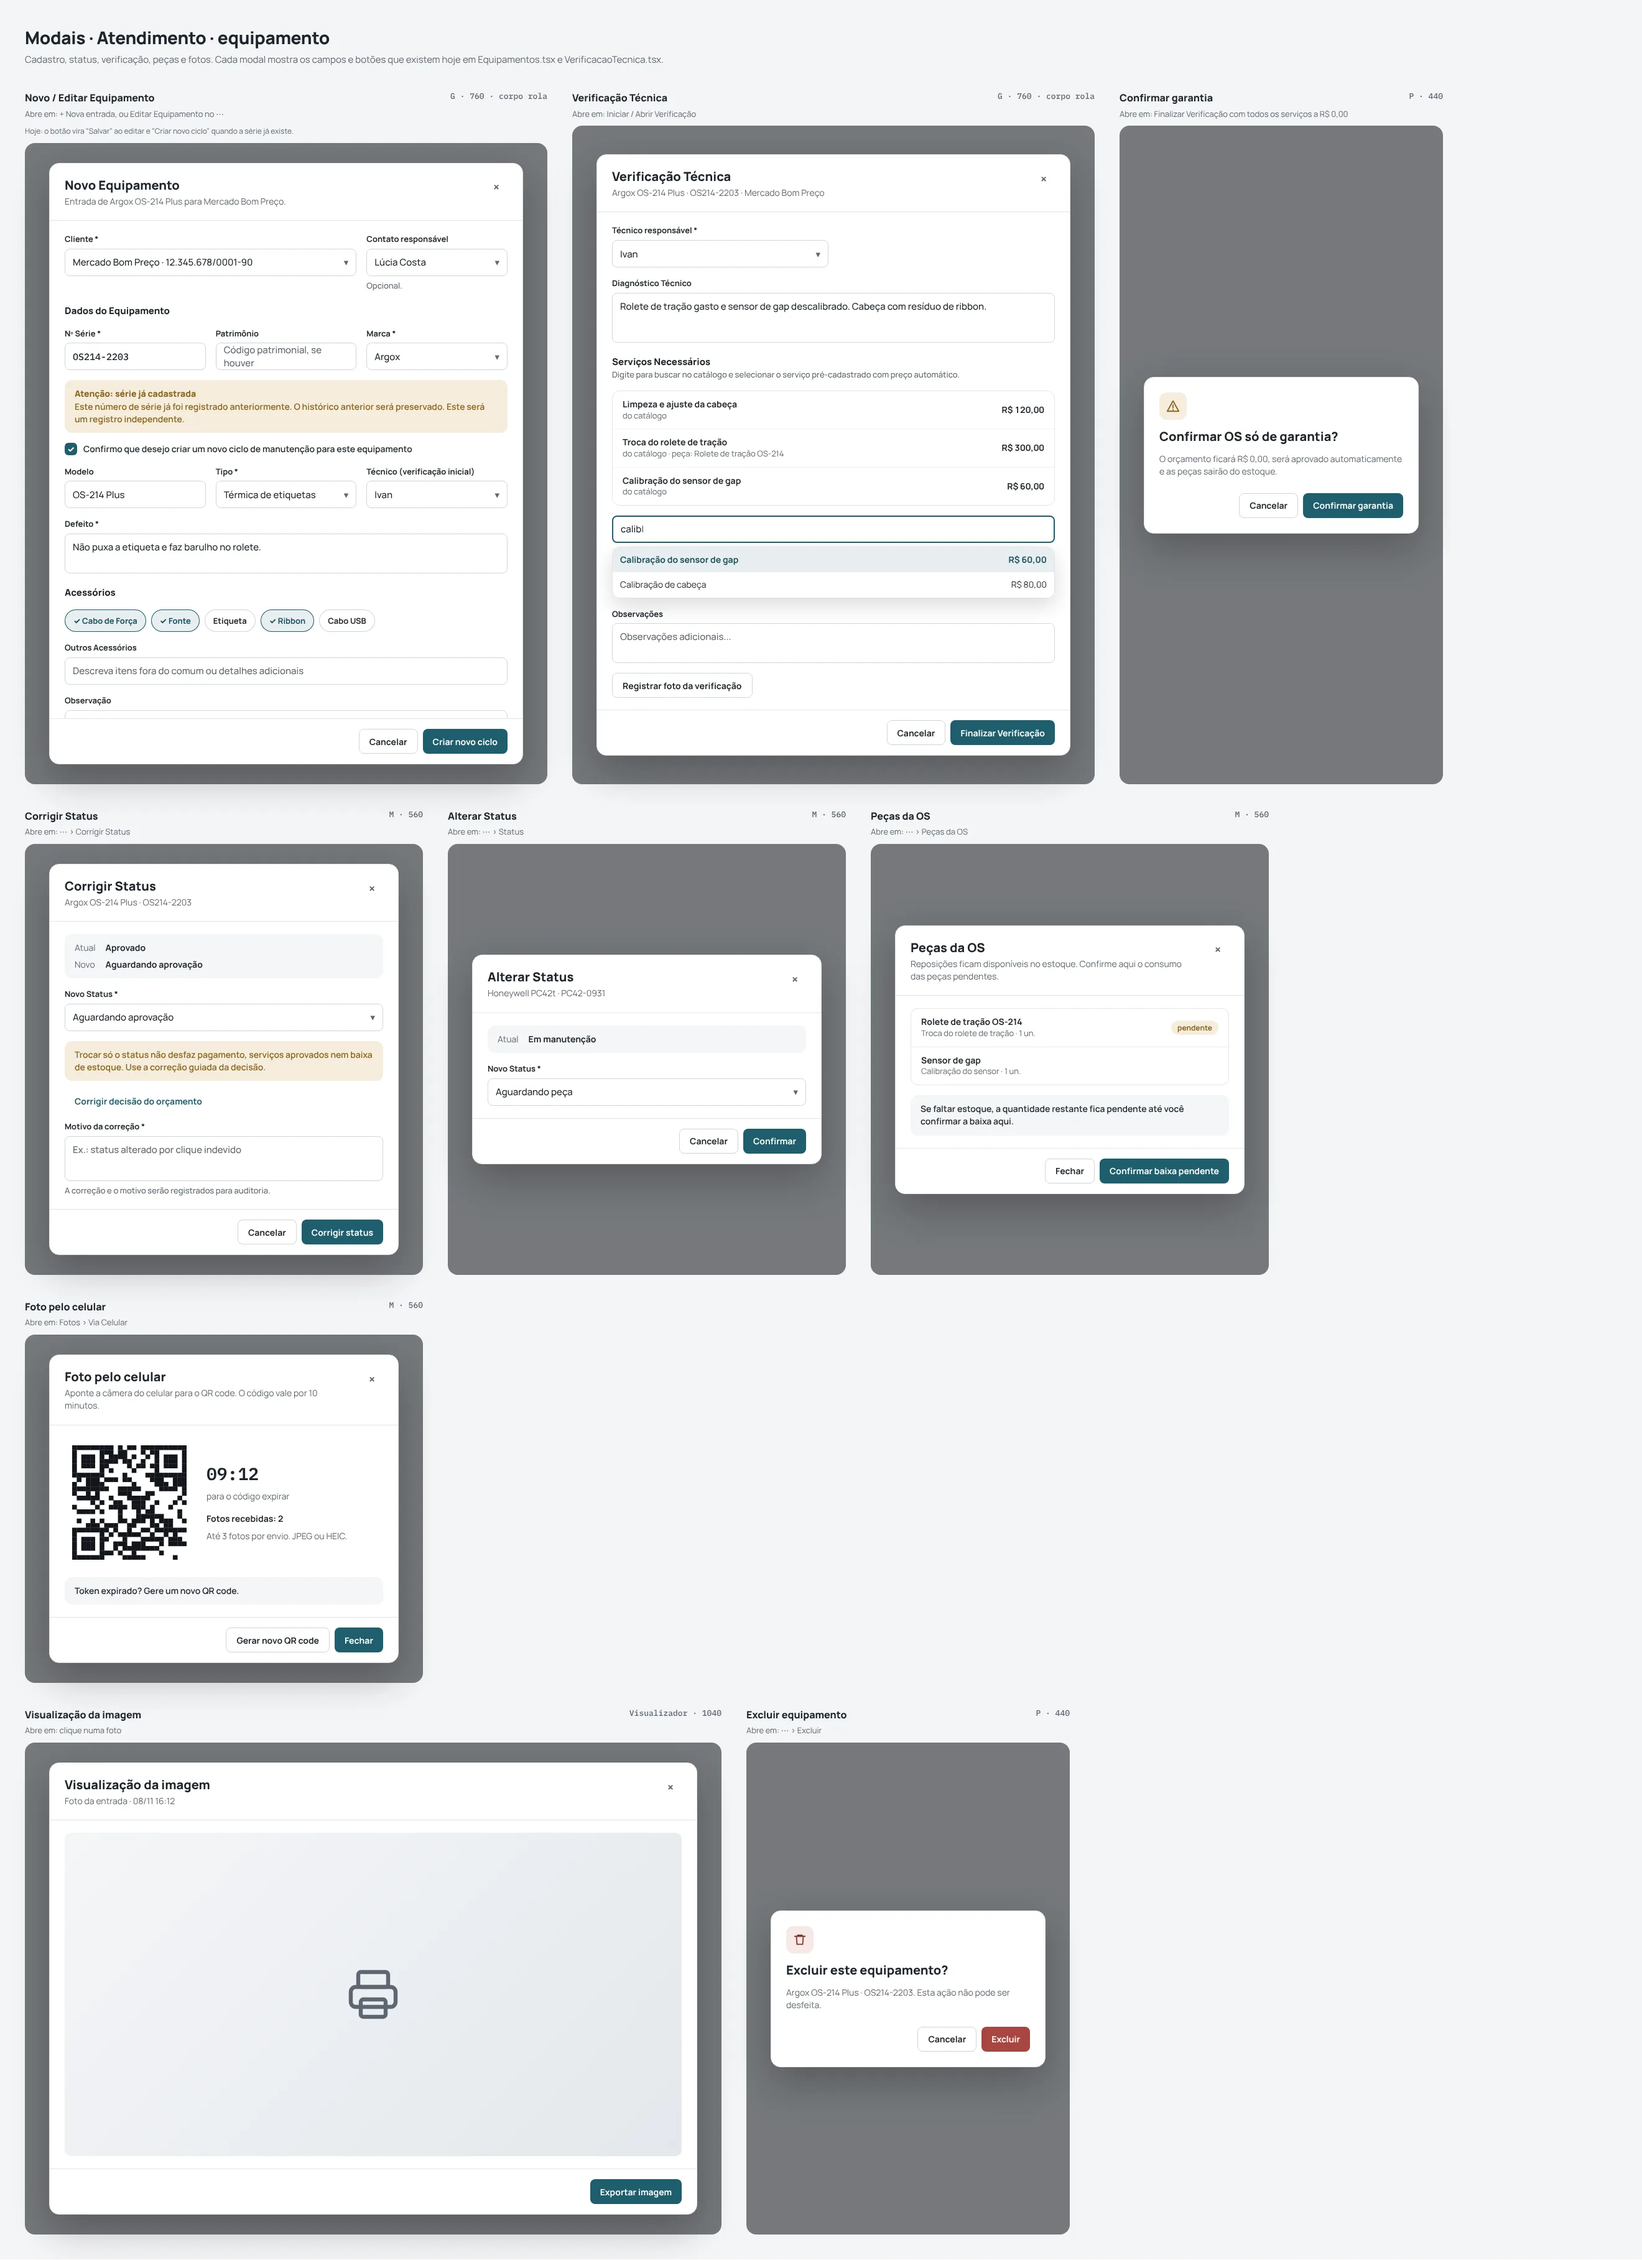
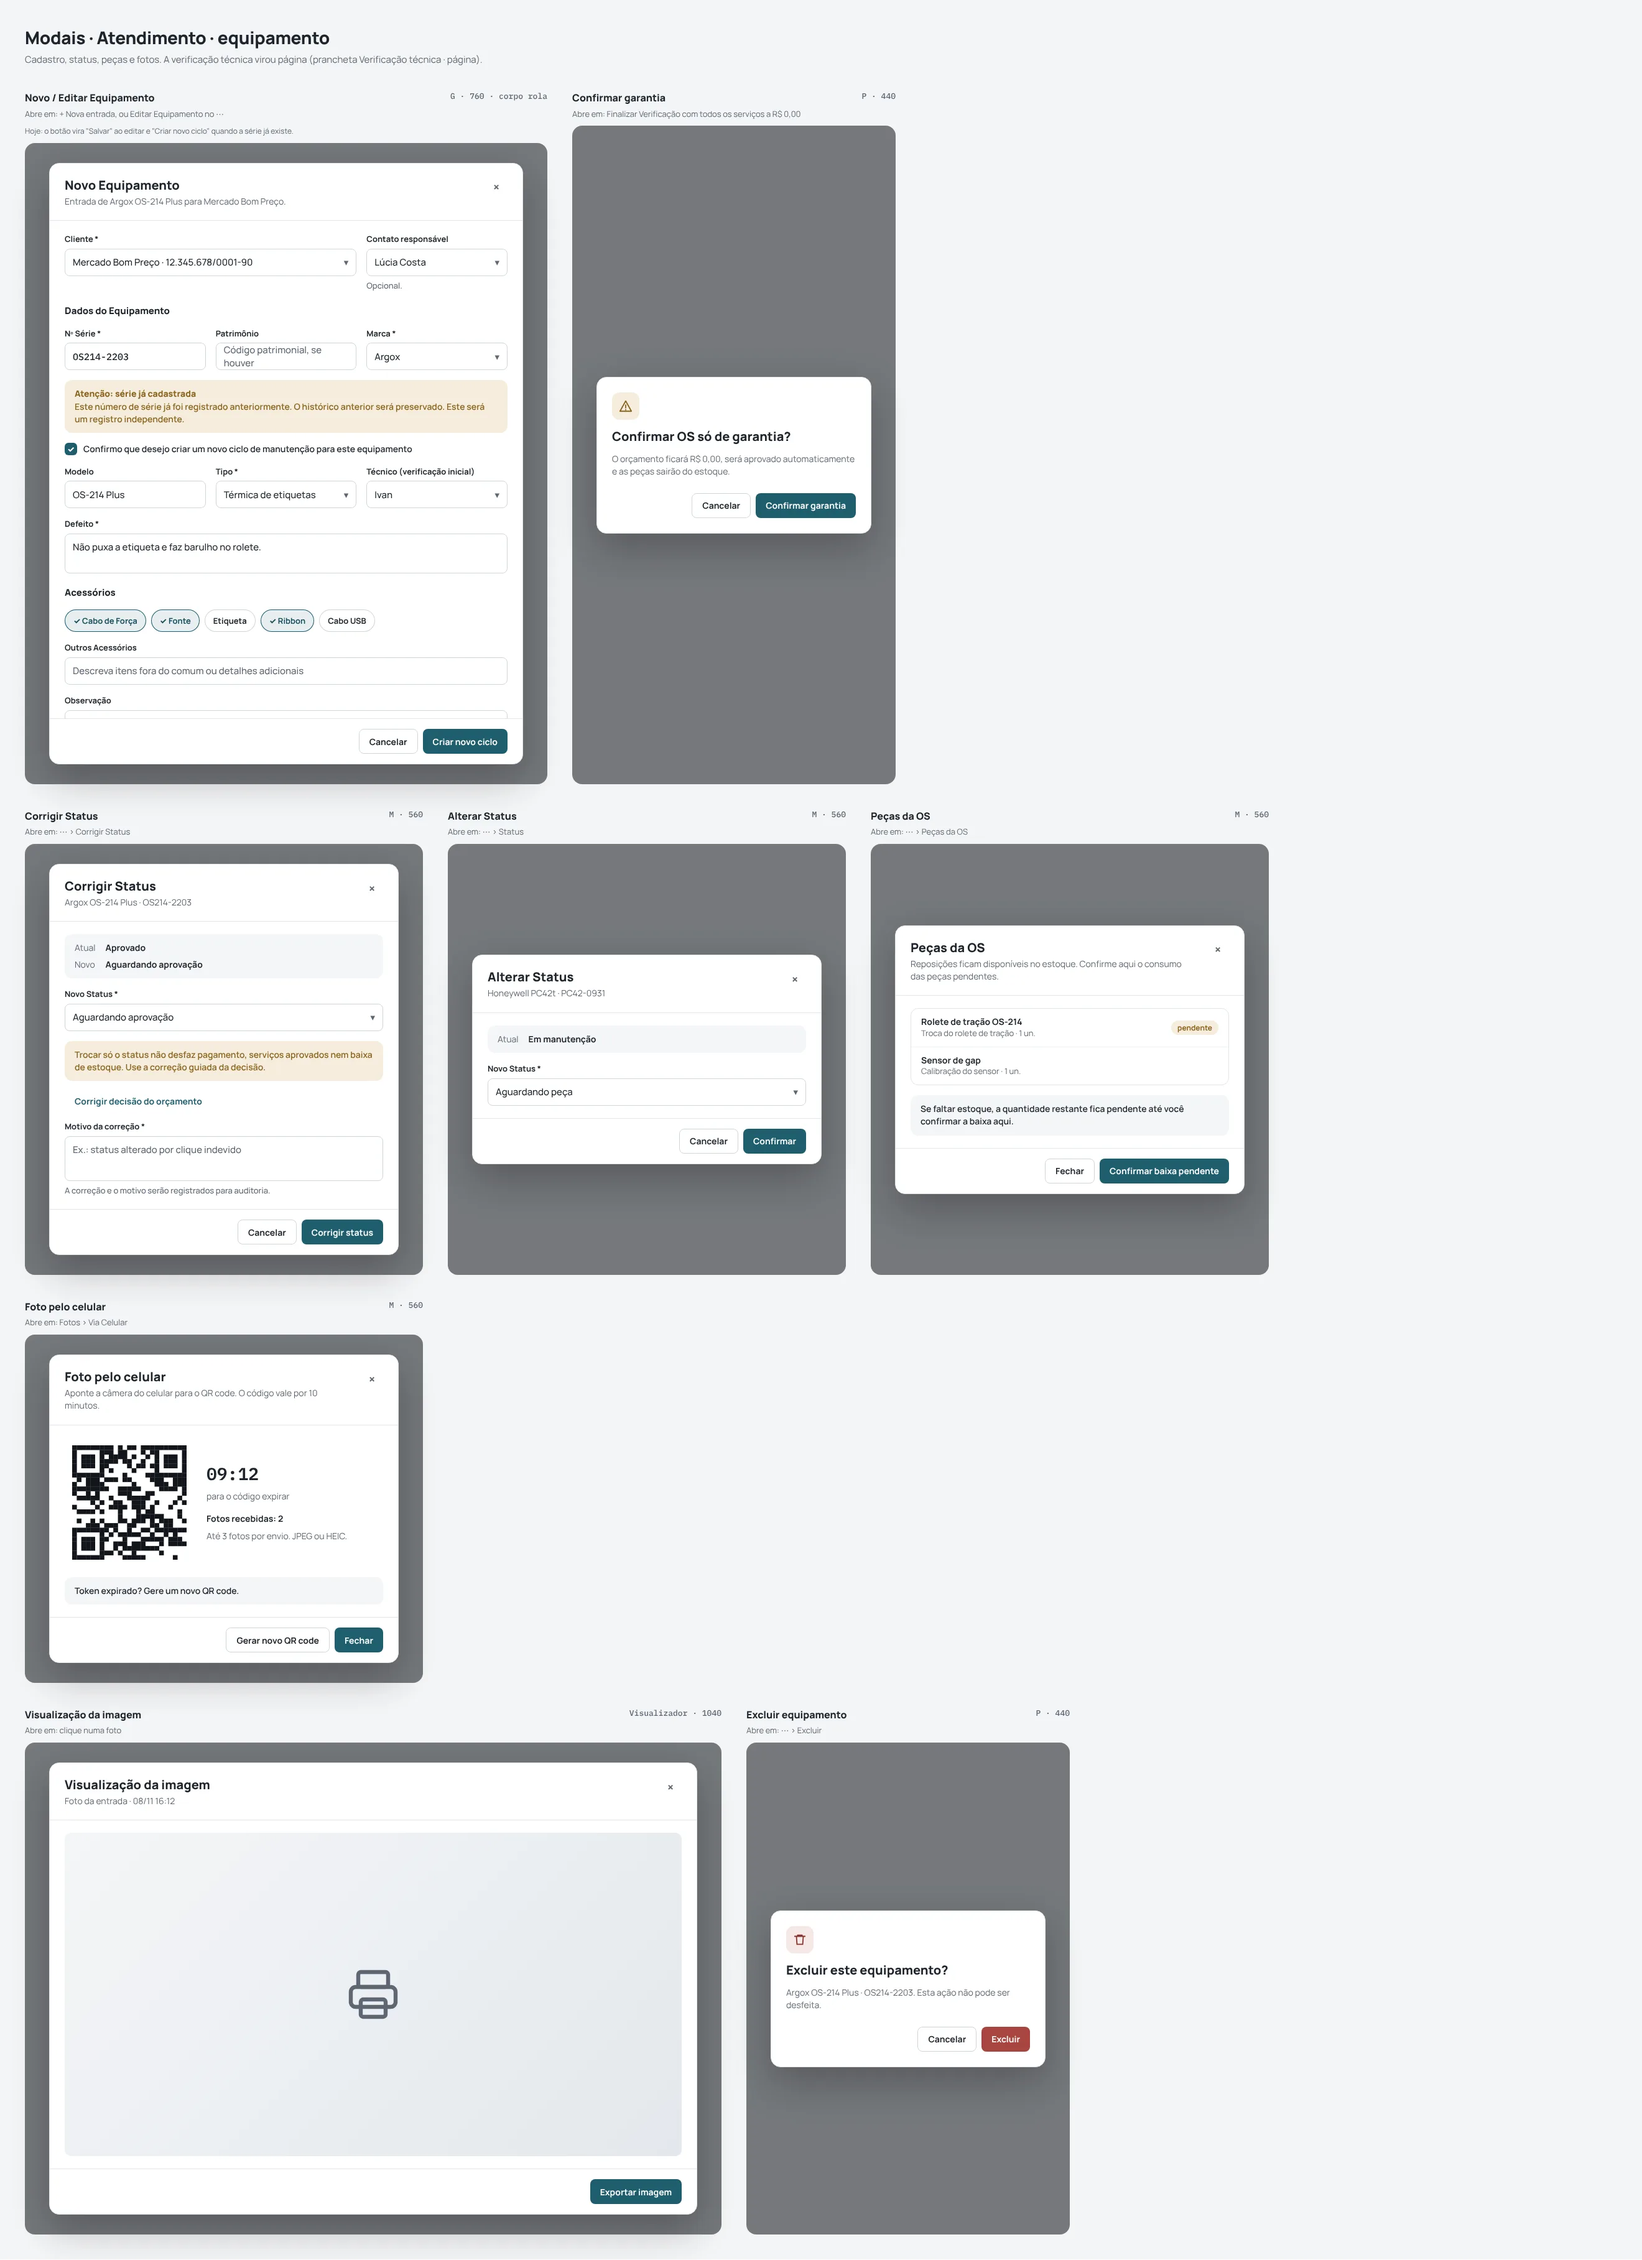
redesign: apaga as janelas antigas de ajuste, escolha e verificação
Viraram páginas (decisão 24). Imagens das folhas de modais refeitas sem elas.

Claude-Session: https://claude.ai/code/session_01DaV7KuehXbtNNevy8Km2Vh

Changed region(s): [[0.3417, 0.0311, 0.9008, 0.3731]]

diff --git a/docs/redesign/referencia/README.md b/docs/redesign/referencia/README.md
@@ -118,12 +118,6 @@ Tema escuro: [03-modal-forma-de-pagamento-escuro.webp](telas/04-atendimento/03-m
 
 Tema escuro: [04-modal-decisao-do-cliente-escuro.webp](telas/04-atendimento/04-modal-decisao-do-cliente-escuro.webp)
 
-### Modal escolha de ajuste
-
-![modal escolha de ajuste, tema claro](telas/04-atendimento/05-modal-escolha-de-ajuste-claro.webp)
-
-Tema escuro: [05-modal-escolha-de-ajuste-escuro.webp](telas/04-atendimento/05-modal-escolha-de-ajuste-escuro.webp)
-
 ### Modais equipamento
 
 Folha com todos os modais de equipamento, com campos de hoje.
